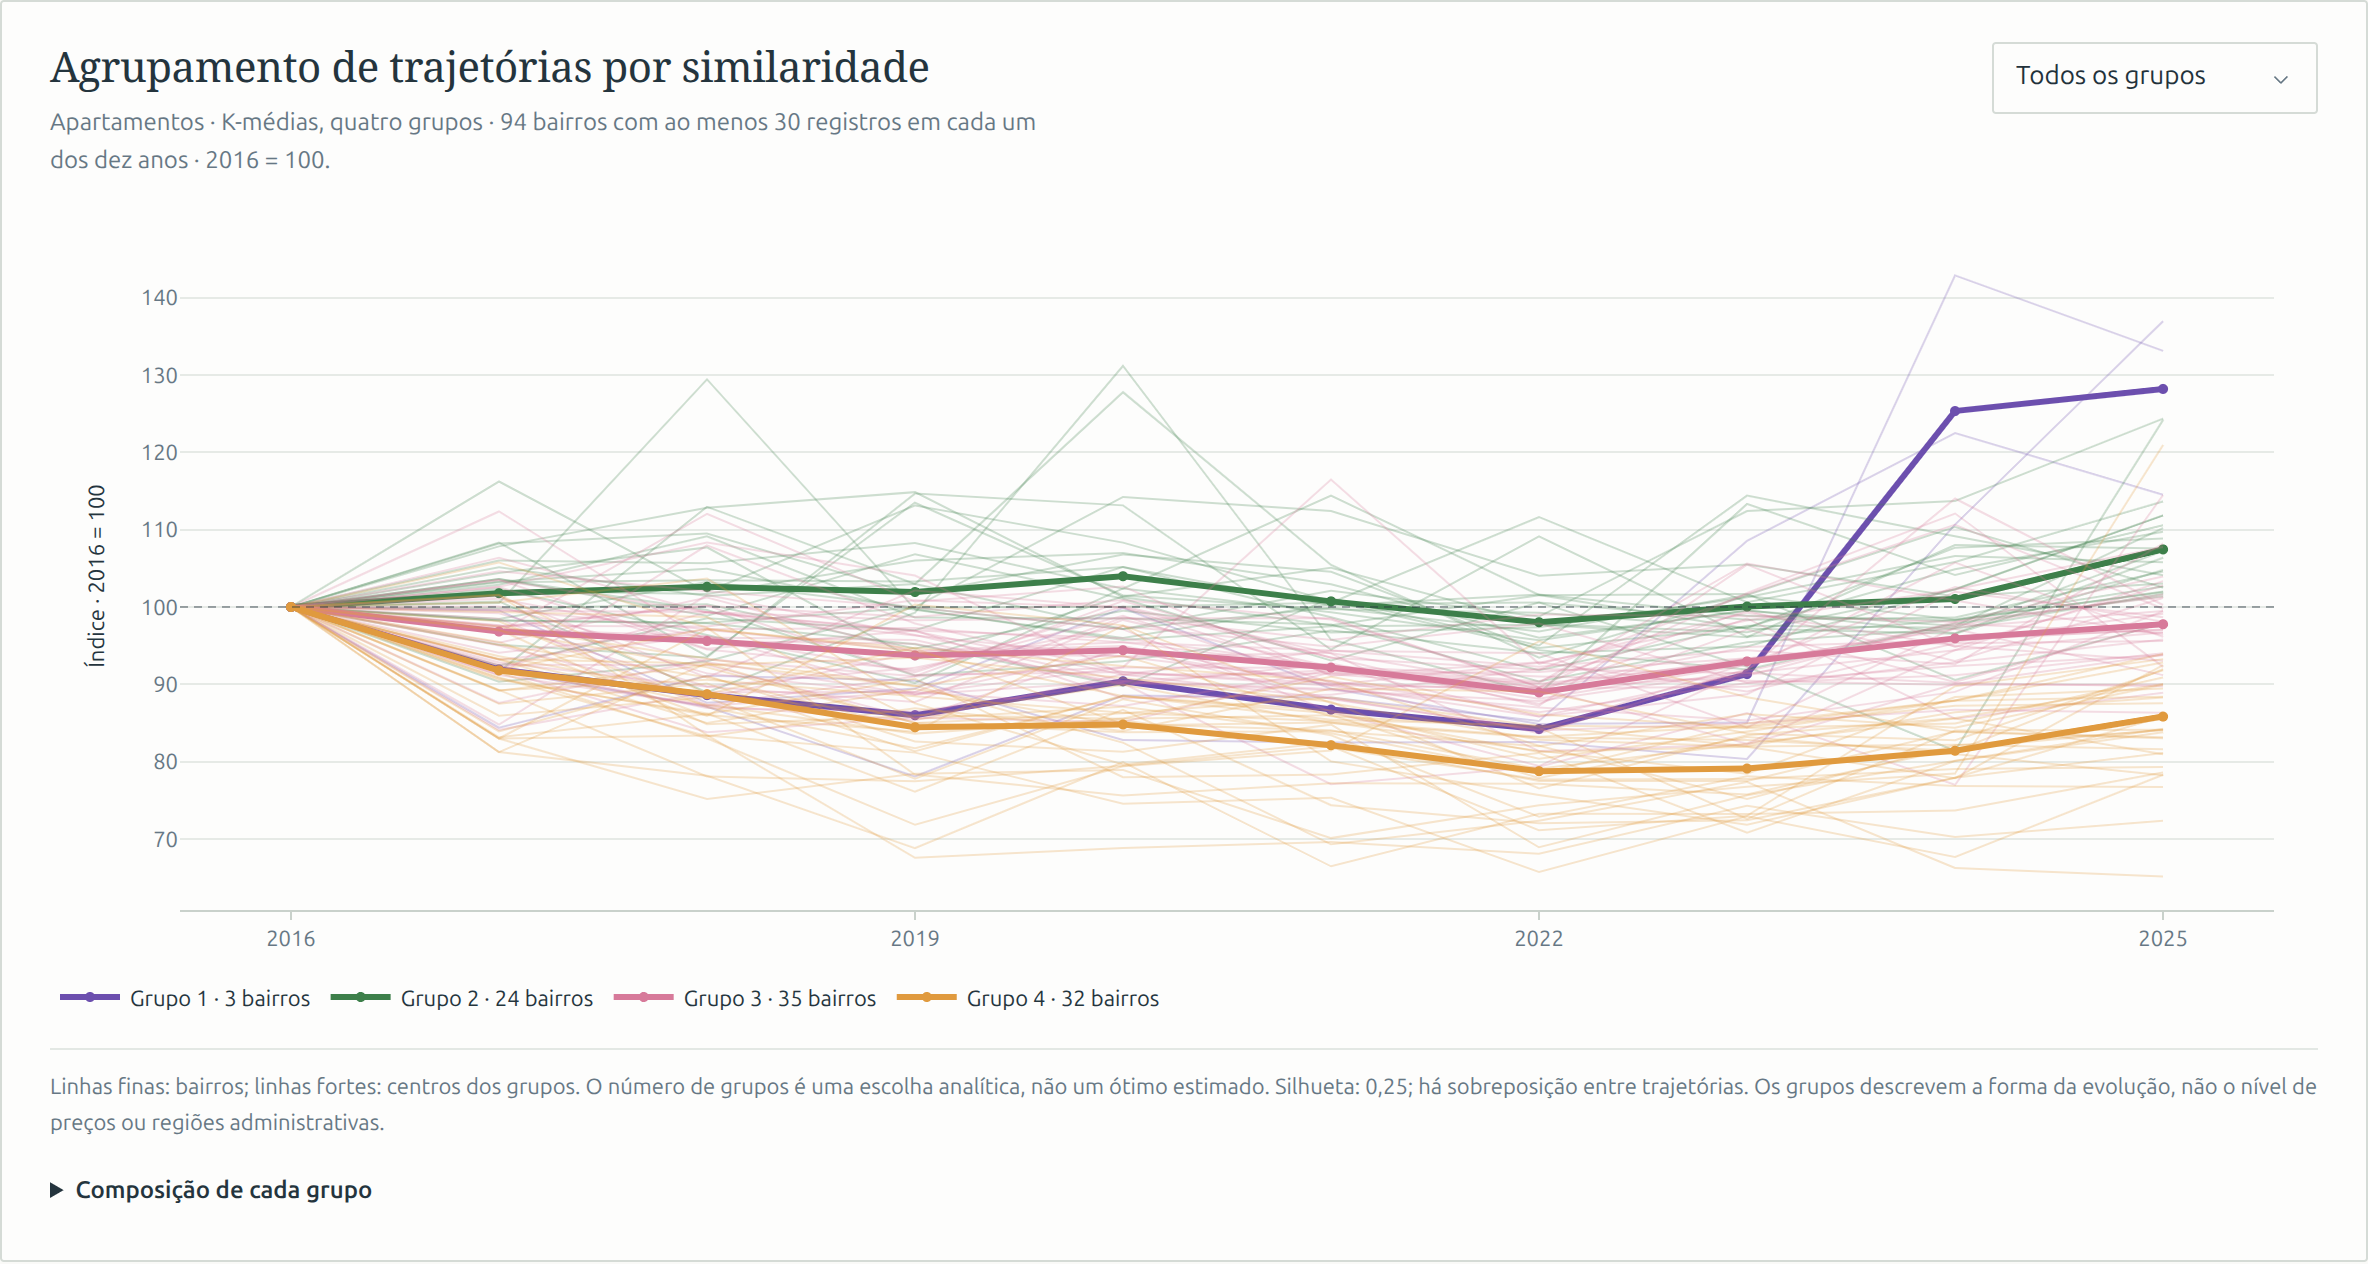
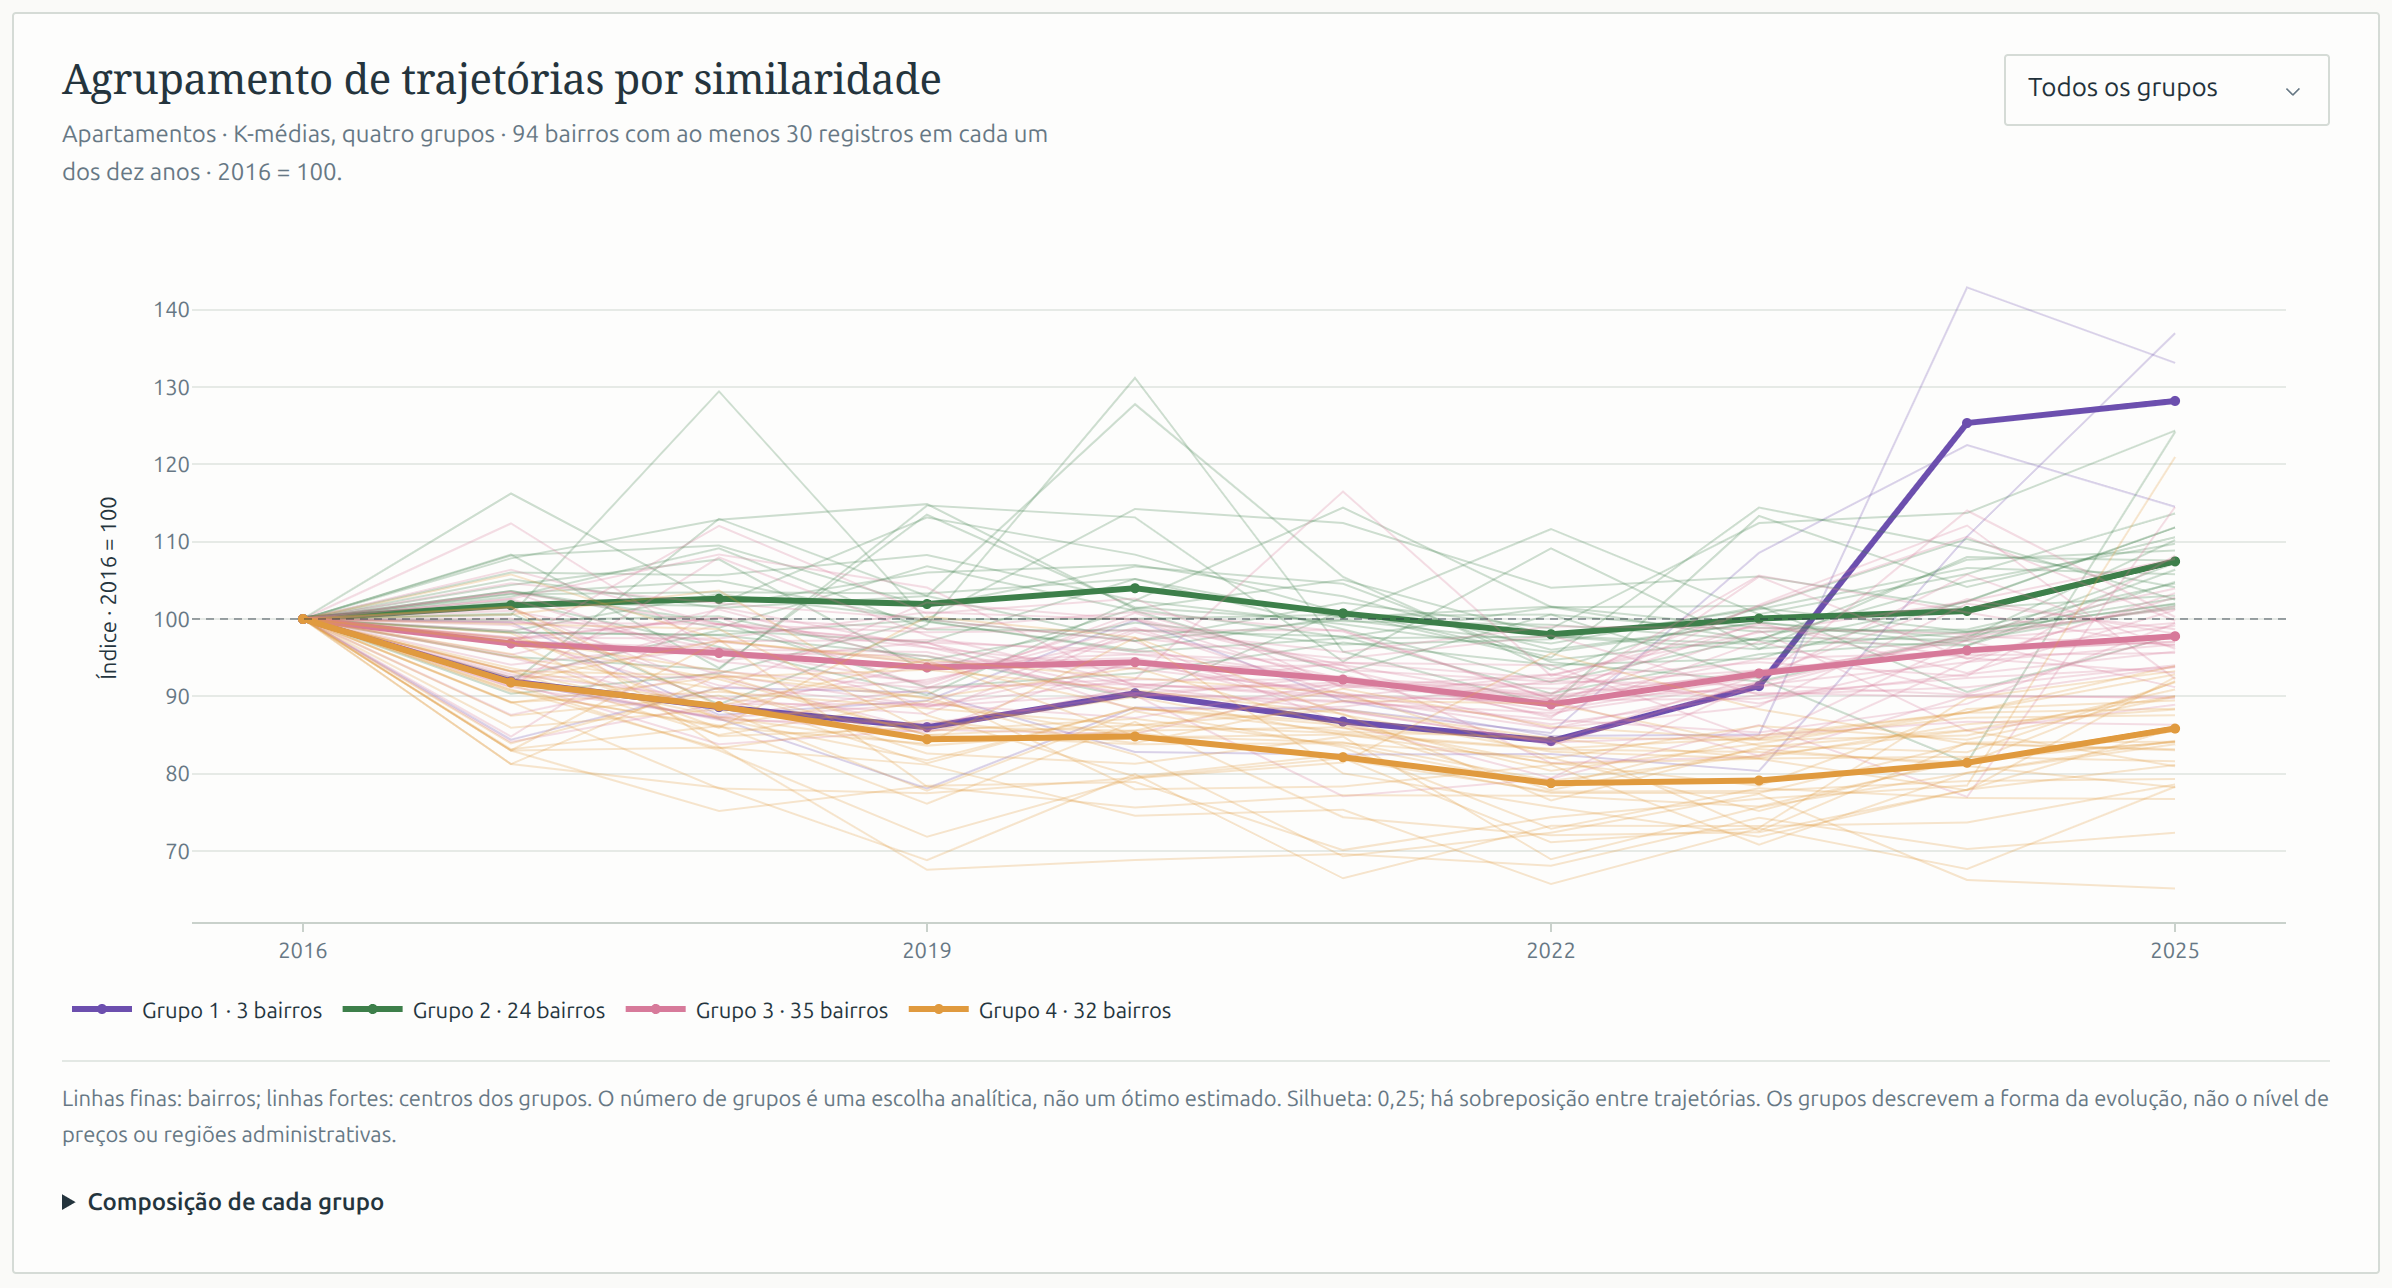
DOC: Refresh dashboard previews and simplify data attribution

diff --git a/README.md b/README.md
@@ -8,7 +8,7 @@ Mapas, distribuições e índices para explorar o mercado residencial de Belo Ho
 
 **[Acessar o painel interativo](https://bh-itbi-dashboard.onrender.com/)**
 
-![Panorama com filtros, indicadores, mapa do valor nominal por m², histograma do valor real por m² e comparações temporais e de distribuição por bairro.](docs/images/panorama.png)
+![Panorama com filtros, indicadores, mapa do valor nominal por m², histograma do valor real por m², séries mensais, distribuições por bairro e trajetórias trimestrais.](docs/images/panorama.png)
 
 *Panorama dos valores declarados de apartamentos e casas no recorte padrão, com mapa, distribuições, séries mensais e trajetórias por bairro.*
 
@@ -34,10 +34,6 @@ Acesse [http://127.0.0.1:8050/](http://127.0.0.1:8050/) no navegador.
 
 ## Dados
 
-Os dados abertos (CC BY 4.0) são da Prefeitura de Belo Horizonte. O painel é um projeto derivado e não oficial que usa a [base processada de Belo Horizonte no Hugging Face](https://huggingface.co/datasets/pracadata/brazil-itbi/blob/5908d77ed56fc9adb6dbafaf2cb38f34245bcd76/data/belo_horizonte_transactions.parquet).
+Os dados são provenientes dos registros oficiais de ITBI da Prefeitura de Belo Horizonte (CC BY 4.0), tratados e disponibilizados no conjunto de dados [pracadata/brazil-itbi](https://huggingface.co/datasets/pracadata/brazil-itbi), no Hugging Face.
 
[1 lines of base64/hex data omitted]
-
-Os valores são declarados ao ITBI e não representam necessariamente preços de venda verificados.
-
-Código disponibilizado sob a [licença MIT](LICENSE); os dados mantêm suas condições próprias de atribuição.
+O código do projeto é disponibilizado sob a licença MIT.
